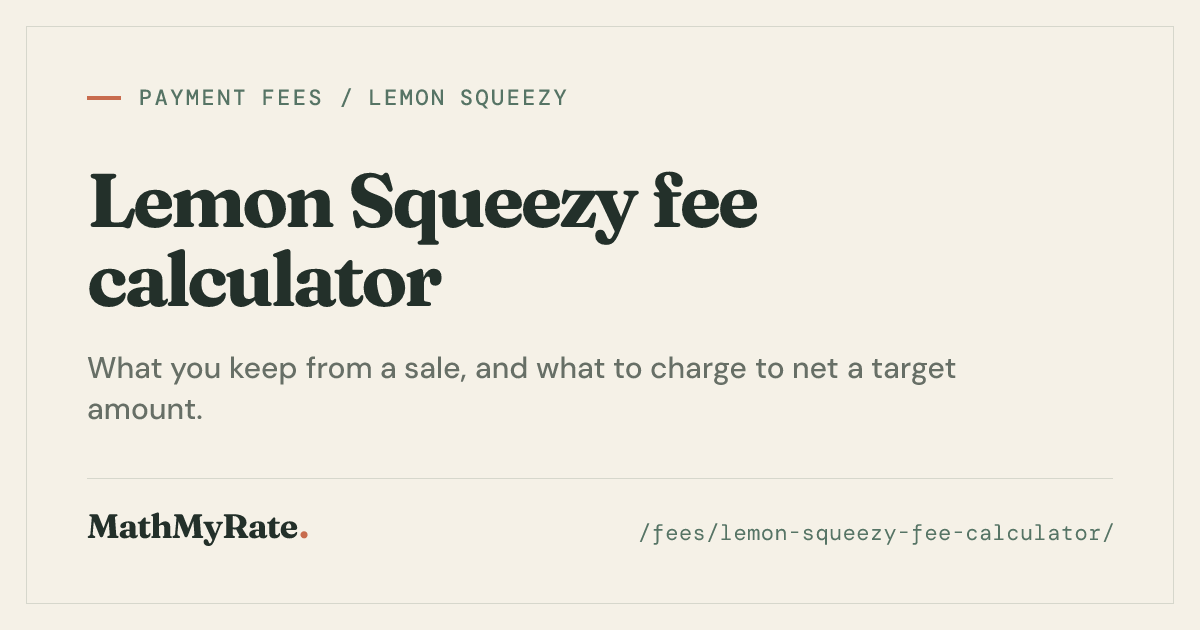
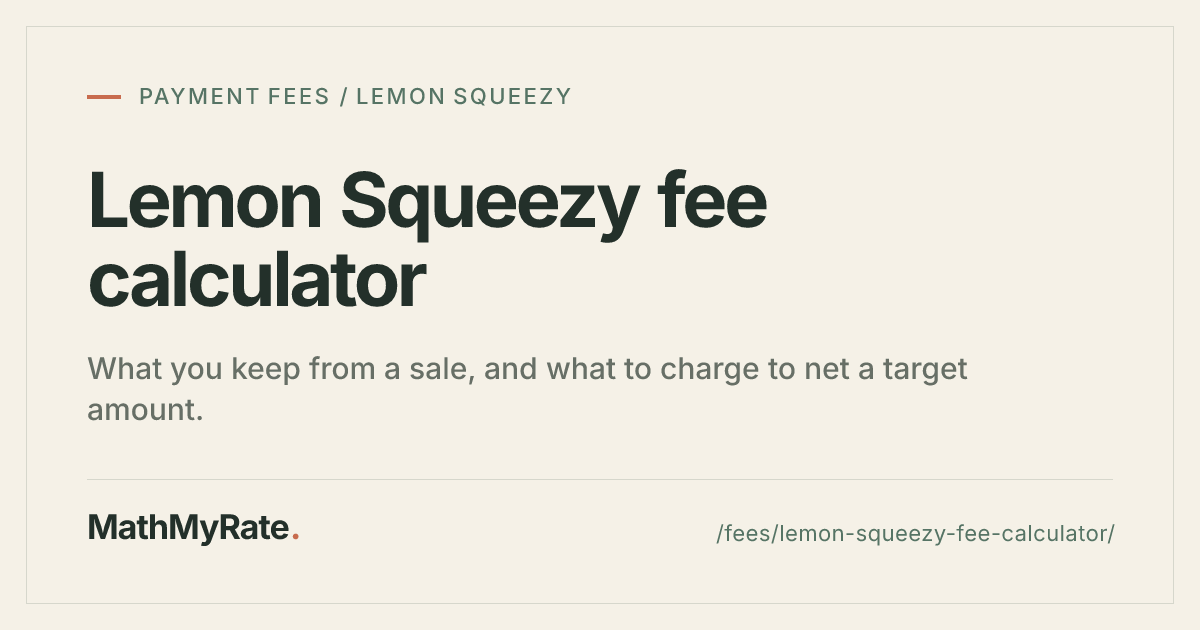
refactor: replace font sources and update related components
- Removed unused font sources (DM Mono, DM Sans, Fraunces) from package.json and pnpm-lock.yaml.
- Introduced 'Inter' font as the primary font across the application, updating styles and components accordingly.
- Adjusted Open Graph image generation script to utilize the new font.
- Minor adjustments to fee calculator pages for consistent styling.

diff --git a/apps/web/src/styles/global.css b/apps/web/src/styles/global.css
@@ -1,10 +1,11 @@
-@import url("https://fonts.googleapis.com/css2?family=DM+Mono:wght@400;500&family=DM+Sans:opsz,wght@9..40,400;9..40,500;9..40,600;9..40,700&family=Fraunces:opsz,wght@9..144,600;9..144,700&display=swap");
+@import "@fontsource/inter/400.css";
+@import "@fontsource/inter/500.css";
+@import "@fontsource/inter/600.css";
+@import "@fontsource/inter/700.css";
 @import "tailwindcss";
 
 @theme {
-  --font-sans: "DM Sans", sans-serif;
-  --font-serif: "Fraunces", serif;
-  --font-mono: "DM Mono", monospace;
+  --font-sans: "Inter", sans-serif;
   --color-ink: #23302a;
   --color-paper: #f5f1e7;
   --color-mist: #e7eee6;
@@ -26,18 +27,14 @@ body {
   margin: 0;
   background: #f5f1e7;
   color: #23302a;
-  font-family: "DM Sans", sans-serif;
+  font-family: "Inter", sans-serif;
 }
 ::selection {
   background: #c9d9c8;
   color: #23302a;
 }
 .display {
-  font-family: "Fraunces", serif;
-  letter-spacing: -0.045em;
-}
-.mono {
-  font-family: "DM Mono", monospace;
+  letter-spacing: -0.02em;
 }
 .grain {
   position: relative;
@@ -53,8 +50,8 @@ body {
 }
 .eyebrow {
   font:
-    500 0.71rem/1 "DM Mono",
-    monospace;
+    500 0.71rem/1 "Inter",
+    sans-serif;
   letter-spacing: 0.11em;
   text-transform: uppercase;
   color: #567465;

diff --git a/docs/project-status.md b/docs/project-status.md
@@ -104,7 +104,7 @@ Open Graph and Twitter card metadata (added 2026-09-15) follows the static
 pre-made-image approach used by pingdotgg/lawn: nine 1200×630 PNGs are
 generated into `apps/web/public/og/` by a satori + resvg build script
 (`apps/web/scripts/generate-og-images.mjs`, `pnpm --filter web og:images`)
-using the site's fonts (Fraunces, DM Sans, DM Mono via Fontsource) and palette
+using the site's font (Inter via Fontsource) and palette
 tokens. The eight money pages (`/`, both freelance calculators, `/fees/`, and
 the four provider calculators) reference per-page images; all other pages,
 including the 404, fall back to `default.png`. `Layout.astro` emits
